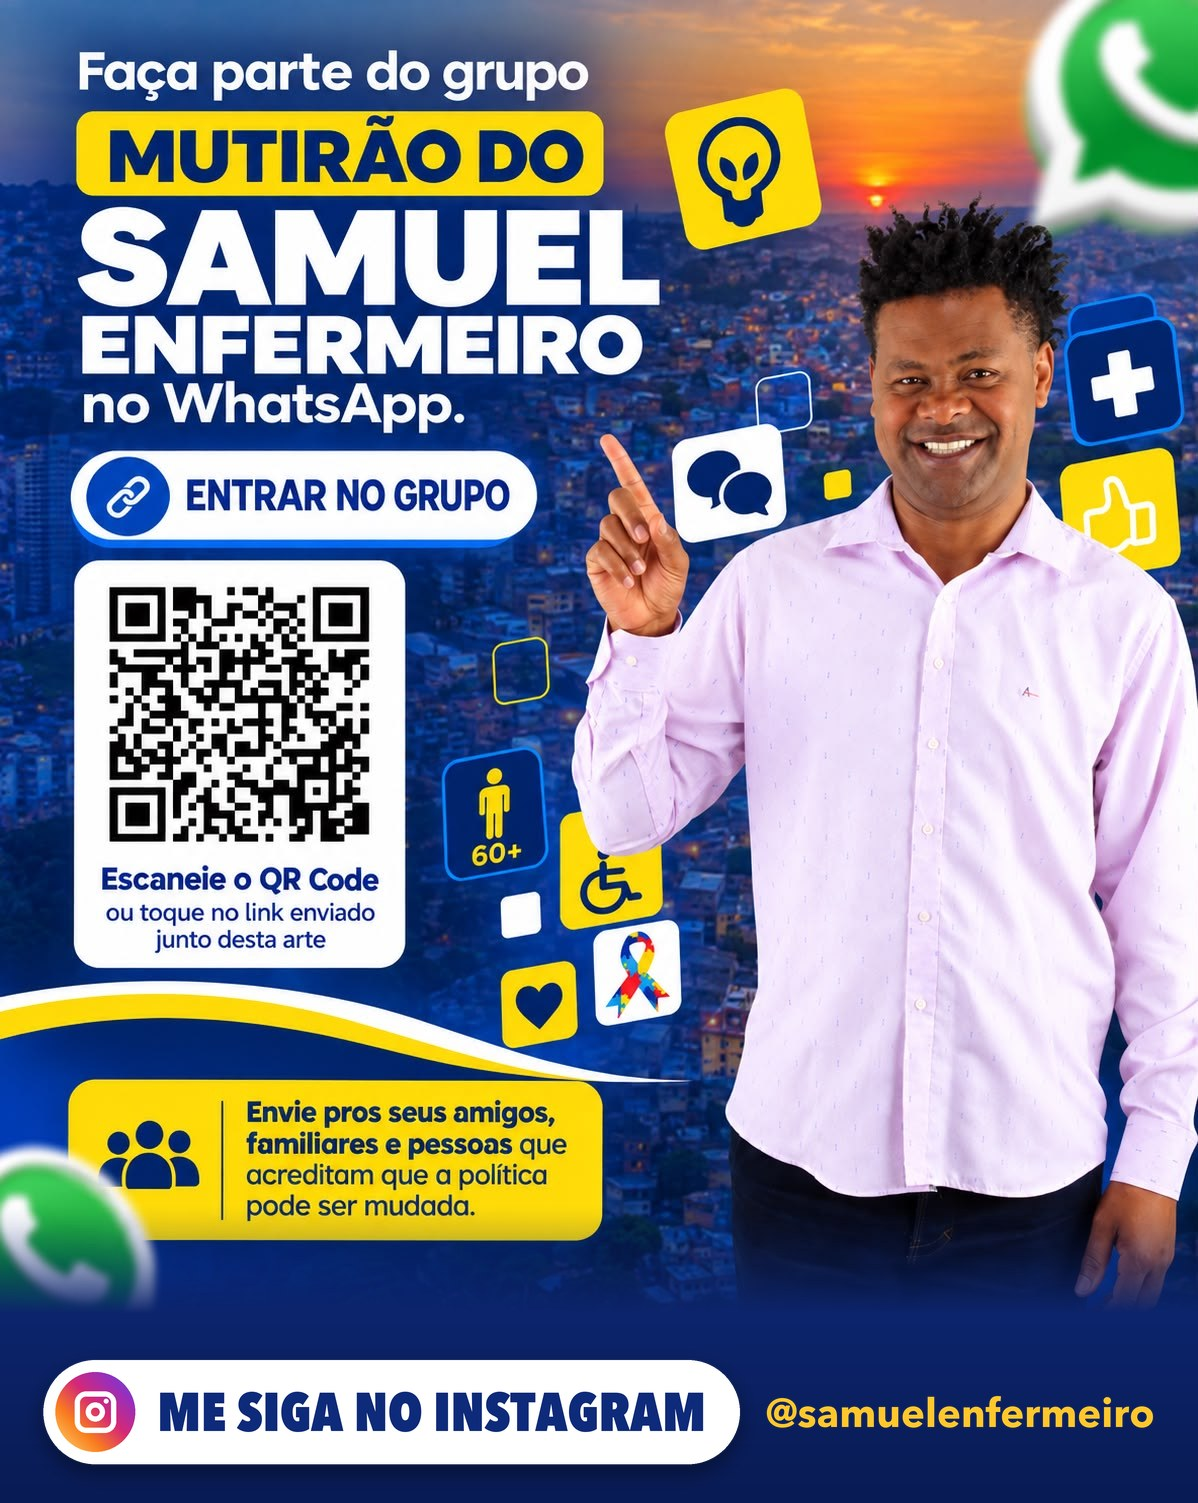
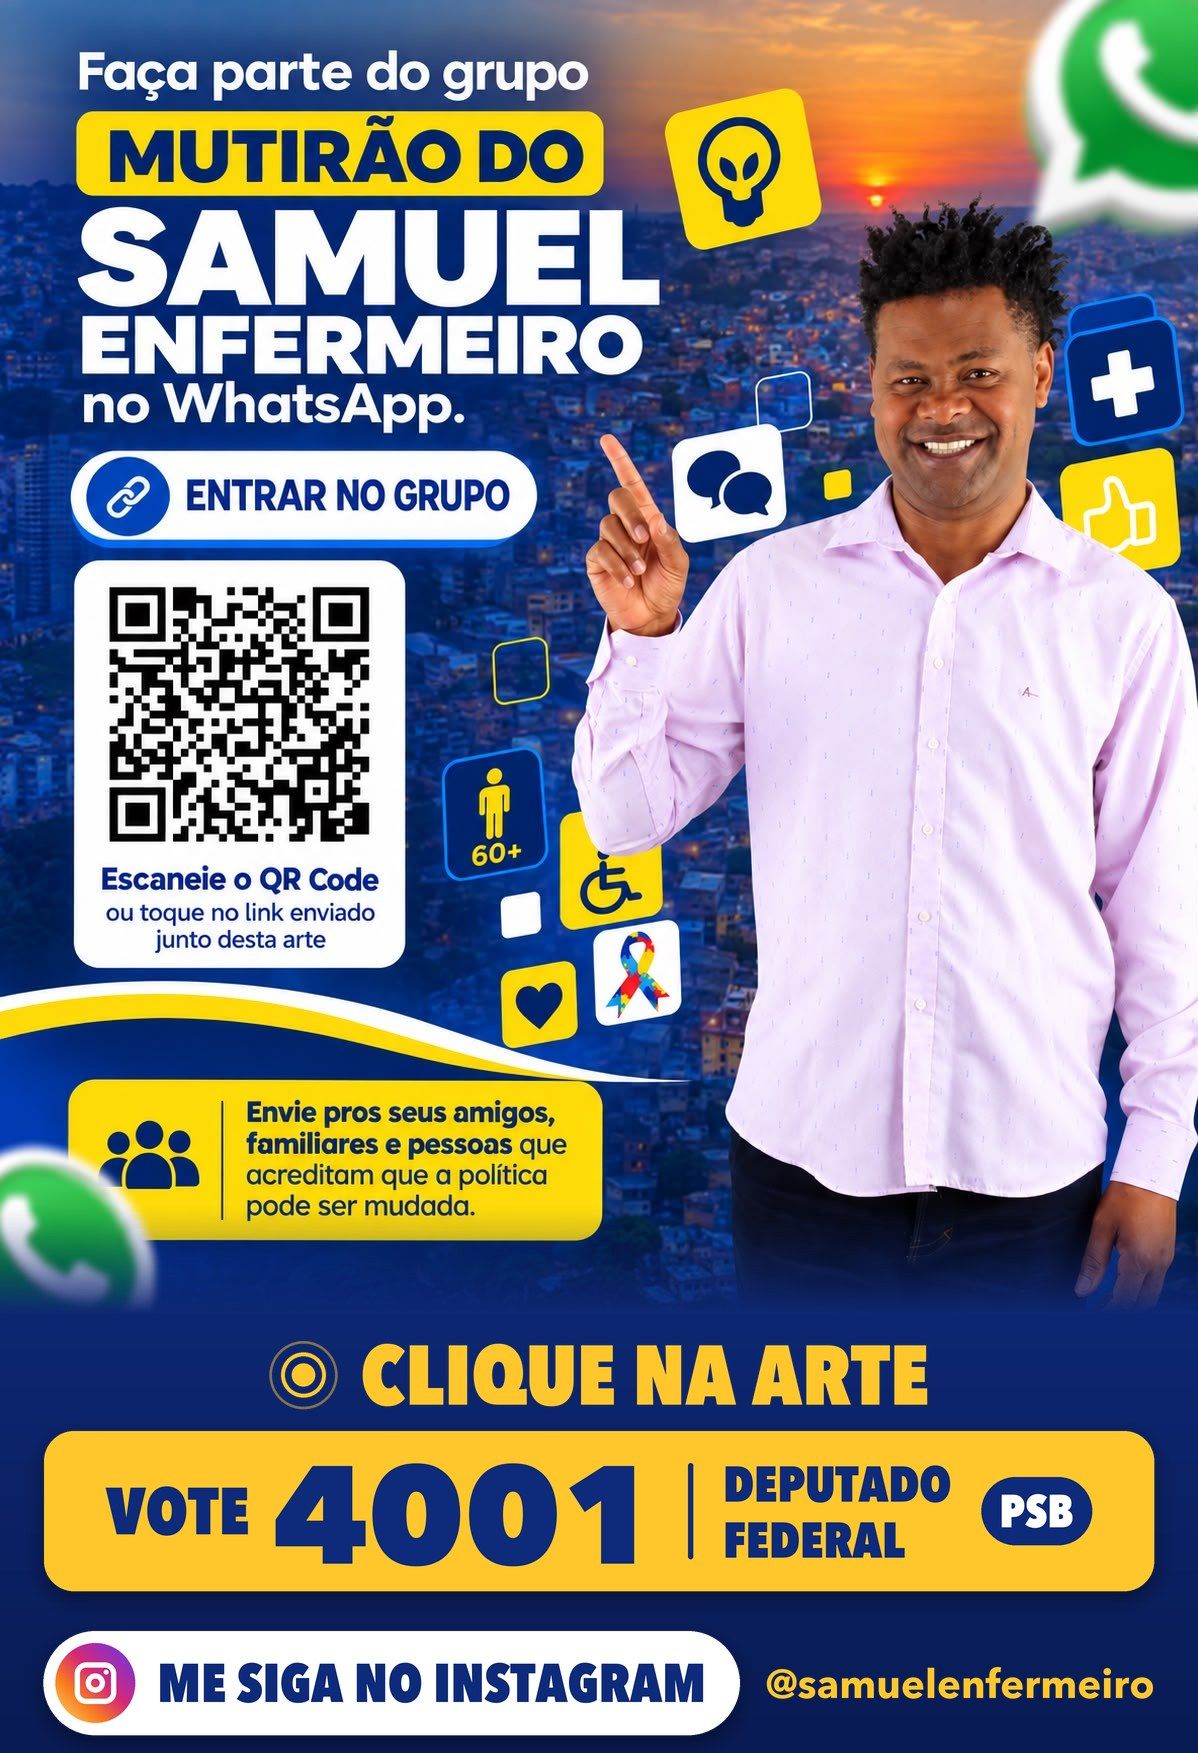
Mutirao: CLIQUE NA ARTE e VOTE 4001 Deputado Federal PSB na arte e na previa

diff --git a/mutirao/index.html b/mutirao/index.html
@@ -11,8 +11,8 @@
 <meta property="og:url" content="https://samuelenfermeiro-4001.github.io/mutirao/">
 <meta property="og:title" content="Mutirão do Samuel Enfermeiro">
 <meta property="og:description" content="Toque na arte para entrar no grupo ou seguir @samuelenfermeiro no Instagram.">
-<meta property="og:image" content="https://samuelenfermeiro-4001.github.io/mutirao/previa-whatsapp.jpg?v=2">
-<meta property="og:image:secure_url" content="https://samuelenfermeiro-4001.github.io/mutirao/previa-whatsapp.jpg?v=2">
+<meta property="og:image" content="https://samuelenfermeiro-4001.github.io/mutirao/previa-whatsapp.jpg?v=3">
+<meta property="og:image:secure_url" content="https://samuelenfermeiro-4001.github.io/mutirao/previa-whatsapp.jpg?v=3">
 <meta property="og:image:type" content="image/jpeg">
 <meta property="og:image:width" content="1200">
 <meta property="og:image:height" content="630">
@@ -28,11 +28,11 @@
   .arte img{display:block;width:100%;height:auto}
   .arte a{position:absolute;-webkit-tap-highlight-color:rgba(255,199,44,.35)}
   .arte a:focus-visible{outline:3px solid #FFC72C;outline-offset:2px}
-  /* Areas medidas sobre arte.jpg (1198x1503) */
+  /* Areas medidas sobre arte.jpg (1198x1753); gerar com ferramentas/arte_mutirao.py */
   .fundo{inset:0}
-  .botao-grupo{left:5.84%;top:29.81%;width:39.23%;height:6.65%;border-radius:999px}
-  .qr-grupo{left:6.18%;top:37.26%;width:27.55%;height:27.15%;border-radius:12px}
-  .faixa-insta{left:0;top:87.36%;width:100%;height:12.64%}
+  .botao-grupo{left:5.84%;top:25.56%;width:39.23%;height:5.70%;border-radius:999px}
+  .qr-grupo{left:6.18%;top:31.95%;width:27.55%;height:23.27%;border-radius:12px}
+  .faixa-insta{left:0;top:92.01%;width:100%;height:7.99%}
   .botao-grupo::after{content:"";position:absolute;inset:0;border-radius:inherit;box-shadow:0 0 0 0 rgba(255,199,44,.9);animation:pulso 1.8s ease-out infinite}
   @keyframes pulso{0%{box-shadow:0 0 0 0 rgba(255,199,44,.85)}100%{box-shadow:0 0 0 14px rgba(255,199,44,0)}}
   @media (prefers-reduced-motion:reduce){.botao-grupo::after{animation:none;box-shadow:0 0 0 3px #FFC72C}}
@@ -46,7 +46,7 @@
 <main>
   <p class="dica">Toque em “Entrar no grupo” ou no QR Code da arte</p>
   <div class="arte">
-    <img src="arte.jpg?v=2" width="1198" height="1503" alt="Faça parte do grupo Mutirão do Samuel Enfermeiro no WhatsApp">
+    <img src="arte.jpg?v=3" width="1198" height="1753" alt="Faça parte do grupo Mutirão do Samuel Enfermeiro no WhatsApp">
     <a class="fundo" href="https://www.instagram.com/samuelenfermeiro/" aria-label="Seguir o Samuel Enfermeiro no Instagram"></a>
     <a class="faixa-insta" href="https://www.instagram.com/samuelenfermeiro/" aria-label="Me siga no Instagram"></a>
     <a class="qr-grupo" href="https://chat.whatsapp.com/Hd8Yf2j2q63KuOYK6g8QCI?mode=gi_t" aria-label="Entrar no grupo pelo QR Code"></a>

diff --git a/ferramentas/arte_mutirao.py b/ferramentas/arte_mutirao.py
@@ -1,0 +1,183 @@
+"""Gera a arte do Mutirão (mutirao/arte.jpg) e a prévia do WhatsApp (mutirao/previa-whatsapp.jpg).
+
+Parte da arte original do designer e acrescenta embaixo: "CLIQUE NA ARTE", o bloco de voto
+e o botão do Instagram. Imprime as áreas clicáveis em % para colar em mutirao/index.html.
+Uso: python3 ferramentas/arte_mutirao.py <arte-original.jpg>
+"""
+import sys
+from pathlib import Path
+from PIL import Image, ImageDraw, ImageFont, ImageFilter, ImageEnhance
+
+RAIZ = Path(__file__).resolve().parent.parent / "mutirao"
+NAVY, NAVY_ESCURO, OURO, BRANCO = (14, 42, 122), (9, 27, 84), (255, 199, 44), (255, 255, 255)
+CONDENSADA = "/System/Library/Fonts/Avenir Next Condensed.ttc"
+AVENIR = "/System/Library/Fonts/Avenir Next.ttc"
+S = 3  # supersample para bordas lisas
+
+
+def fonte(caminho, nome, tamanho):
+    for i in range(30):
+        try:
+            f = ImageFont.truetype(caminho, tamanho, index=i)
+        except OSError:
+            break
+        if " ".join(f.getname()).lower() == nome.lower():
+            return f
+    raise SystemExit(f"fonte não encontrada: {nome}")
+
+
+def texto_centro(d, cx, cy, txt, f, cor):
+    x0, y0, x1, y1 = f.getbbox(txt)
+    d.text((cx - (x0 + x1) / 2, cy - (y0 + y1) / 2), txt, font=f, fill=cor)
+
+
+def texto_meio(d, x, cy, txt, f, cor):
+    _, y0, _, y1 = f.getbbox(txt)
+    d.text((x, cy - (y0 + y1) / 2), txt, font=f, fill=cor)
+
+
+def icone_toque(d, cx, cy, r, cor):
+    d.ellipse((cx - r * .34, cy - r * .34, cx + r * .34, cy + r * .34), fill=cor)
+    d.ellipse((cx - r * .66, cy - r * .66, cx + r * .66, cy + r * .66), outline=cor, width=int(r * .12))
+    d.ellipse((cx - r, cy - r, cx + r, cy + r), outline=cor + (120,), width=int(r * .08))
+
+
+def icone_instagram(camada, x, y, diam):
+    paradas = [(0, (254, 218, 117)), (.3, (250, 126, 30)), (.55, (214, 41, 118)), (.8, (150, 47, 191)), (1, (79, 91, 213))]
+    g = Image.new("RGBA", (diam, diam))
+    px = g.load()
+    for yy in range(diam):
+        for xx in range(diam):
+            t = (xx + (diam - yy)) / (2 * diam)
+            for (a, ca), (b, cb) in zip(paradas, paradas[1:]):
+                if a <= t <= b:
+                    k = (t - a) / (b - a)
+                    px[xx, yy] = tuple(int(ca[i] + (cb[i] - ca[i]) * k) for i in range(3)) + (255,)
+                    break
+    m = Image.new("L", (diam, diam), 0)
+    ImageDraw.Draw(m).ellipse((0, 0, diam - 1, diam - 1), fill=255)
+    camada.paste(g, (x, y), m)
+    d = ImageDraw.Draw(camada)
+    q = diam * .52; qx, qy = x + (diam - q) / 2, y + (diam - q) / 2; w = int(diam * .07)
+    d.rounded_rectangle((qx, qy, qx + q, qy + q), int(q * .28), outline="white", width=w)
+    r = q * .23
+    d.ellipse((qx + q / 2 - r, qy + q / 2 - r, qx + q / 2 + r, qy + q / 2 + r), outline="white", width=w)
+    p = q * .055
+    d.ellipse((qx + q * .76 - p, qy + q * .24 - p, qx + q * .76 + p, qy + q * .24 + p), fill="white")
+
+
+def gerar(origem):
+    arte = Image.open(origem).convert("RGB")
+    W, H = arte.size
+    PAINEL, FUSAO = 440, 110
+    NH = H + PAINEL
+    saida = Image.new("RGB", (W, NH), NAVY)
+    saida.paste(arte, (0, 0))
+
+    # degrade marinho que funde com o pé da arte
+    inicio = H - FUSAO
+    grad = Image.new("RGB", (1, NH)); mask = Image.new("L", (1, NH))
+    for y in range(NH):
+        t = max(0.0, min(1.0, (y - inicio) / (NH - inicio)))
+        grad.putpixel((0, y), tuple(int(NAVY[i] + (NAVY_ESCURO[i] - NAVY[i]) * t) for i in range(3)))
+        mask.putpixel((0, y), 0 if y < inicio else 255 if y >= H else int(255 * ((y - inicio) / FUSAO) ** 1.4))
+    saida.paste(grad.resize((W, NH)), (0, 0), mask.resize((W, NH)))
+
+    L = Image.new("RGBA", (W * S, PAINEL * S), (0, 0, 0, 0))
+    d = ImageDraw.Draw(L)
+
+    # 1) CLIQUE NA ARTE
+    f_clique = fonte(CONDENSADA, "Avenir Next Condensed Heavy", 84 * S)
+    cy = 62 * S
+    rotulo = "CLIQUE NA ARTE"
+    larg = 70 * S + 22 * S + f_clique.getlength(rotulo)
+    x = (W * S - larg) / 2
+    icone_toque(d, x + 35 * S, cy, 34 * S, OURO)
+    texto_meio(d, x + 92 * S, cy, rotulo, f_clique, OURO)
+
+    # 2) VOTE 4001 | DEPUTADO FEDERAL | PSB
+    bx0, by0, bx1, by1 = 44 * S, 118 * S, (W - 44) * S, 278 * S
+    sombra = Image.new("RGBA", L.size, (0, 0, 0, 0))
+    ImageDraw.Draw(sombra).rounded_rectangle((bx0, by0 + 8 * S, bx1, by1 + 8 * S), 30 * S, fill=(0, 0, 0, 110))
+    L = Image.alpha_composite(sombra.filter(ImageFilter.GaussianBlur(10 * S)), L)
+    d = ImageDraw.Draw(L)
+    d.rounded_rectangle((bx0, by0, bx1, by1), 30 * S, fill=OURO)
+    f_vote = fonte(CONDENSADA, "Avenir Next Condensed Heavy", 66 * S)
+    f_num = fonte(AVENIR, "Avenir Next Heavy", 138 * S)
+    f_cargo = fonte(CONDENSADA, "Avenir Next Condensed Heavy", 50 * S)
+    f_psb = fonte(CONDENSADA, "Avenir Next Condensed Heavy", 46 * S)
+    vy = (by0 + by1) / 2
+    w_vote, w_num = f_vote.getlength("VOTE"), f_num.getlength("4001")
+    w_cargo = max(f_cargo.getlength("DEPUTADO"), f_cargo.getlength("FEDERAL"))
+    w_psb = f_psb.getlength("PSB") + 36 * S
+    total = w_vote + 22 * S + w_num + 30 * S + 5 * S + 30 * S + w_cargo + 30 * S + w_psb
+    x = (W * S - total) / 2
+    texto_meio(d, x, vy, "VOTE", f_vote, NAVY); x += w_vote + 22 * S
+    texto_meio(d, x, vy + 4 * S, "4001", f_num, NAVY); x += w_num + 30 * S
+    d.rounded_rectangle((x, vy - 48 * S, x + 5 * S, vy + 48 * S), 3 * S, fill=NAVY); x += 5 * S + 30 * S
+    texto_meio(d, x, vy - 27 * S, "DEPUTADO", f_cargo, NAVY)
+    texto_meio(d, x, vy + 29 * S, "FEDERAL", f_cargo, NAVY); x += w_cargo + 30 * S
+    d.rounded_rectangle((x, vy - 34 * S, x + w_psb, vy + 34 * S), 34 * S, fill=NAVY)
+    texto_centro(d, x + w_psb / 2, vy, "PSB", f_psb, BRANCO)
+
+    # 3) ME SIGA NO INSTAGRAM @samuelenfermeiro
+    f_bt = fonte(CONDENSADA, "Avenir Next Condensed Heavy", 54 * S)
+    f_arroba = fonte(AVENIR, "Avenir Next Bold", 40 * S)
+    PH, CD, PAD = 104 * S, 80 * S, 12 * S
+    rot, arroba = "ME SIGA NO INSTAGRAM", "@samuelenfermeiro"
+    pw = int(PAD + CD + 22 * S + f_bt.getlength(rot) + 34 * S)
+    total = pw + 26 * S + f_arroba.getlength(arroba)
+    px0, py0 = int((W * S - total) / 2), 318 * S
+    sombra = Image.new("RGBA", L.size, (0, 0, 0, 0))
+    ImageDraw.Draw(sombra).rounded_rectangle((px0, py0 + 8 * S, px0 + pw, py0 + PH + 8 * S), PH // 2, fill=(0, 0, 0, 110))
+    L = Image.alpha_composite(sombra.filter(ImageFilter.GaussianBlur(10 * S)), L)
+    d = ImageDraw.Draw(L)
+    d.rounded_rectangle((px0, py0, px0 + pw, py0 + PH), PH // 2, fill=BRANCO)
+    icone_instagram(L, px0 + PAD, py0 + (PH - CD) // 2, CD)
+    d = ImageDraw.Draw(L)
+    texto_meio(d, px0 + PAD + CD + 22 * S, py0 + PH / 2, rot, f_bt, NAVY)
+    texto_meio(d, px0 + pw + 26 * S, py0 + PH / 2, arroba, f_arroba, OURO)
+
+    L = L.resize((W, PAINEL), Image.LANCZOS)
+    saida.paste(L, (0, H), L)
+    saida.save(RAIZ / "arte.jpg", quality=88, optimize=True, progressive=True)
+
+    # prévia 1200x630: arte inteira no centro, chamadas grandes nas laterais
+    PW, PHv, E = 1200, 630, 2
+    fundo = saida.copy(); k = max(PW / fundo.width, PHv / fundo.height)
+    fundo = fundo.resize((int(fundo.width * k) + 1, int(fundo.height * k) + 1), Image.LANCZOS)
+    l, t = (fundo.width - PW) // 2, (fundo.height - PHv) // 2
+    fundo = ImageEnhance.Brightness(fundo.crop((l, t, l + PW, t + PHv)).filter(ImageFilter.GaussianBlur(30))).enhance(.42)
+    frente = saida.resize((round(W * PHv / NH), PHv), Image.LANCZOS)
+    fundo.paste(frente, ((PW - frente.width) // 2, 0))
+    lado = (PW - frente.width) / 2
+    C = Image.new("RGBA", (PW * E, PHv * E), (0, 0, 0, 0)); d = ImageDraw.Draw(C)
+    ce = lado / 2 * E
+    icone_toque(d, ce, 190 * E, 44 * E, OURO)
+    texto_centro(d, ce, 300 * E, "CLIQUE", fonte(CONDENSADA, "Avenir Next Condensed Heavy", 92 * E), BRANCO)
+    texto_centro(d, ce, 392 * E, "NA ARTE", fonte(CONDENSADA, "Avenir Next Condensed Heavy", 92 * E), OURO)
+    cd = (PW - lado / 2) * E
+    texto_centro(d, cd, 196 * E, "VOTE", fonte(CONDENSADA, "Avenir Next Condensed Heavy", 58 * E), OURO)
+    texto_centro(d, cd, 292 * E, "4001", fonte(AVENIR, "Avenir Next Heavy", 112 * E), BRANCO)
+    texto_centro(d, cd, 382 * E, "DEPUTADO FEDERAL", fonte(CONDENSADA, "Avenir Next Condensed Heavy", 42 * E), BRANCO)
+    f_p = fonte(CONDENSADA, "Avenir Next Condensed Heavy", 38 * E); wp = f_p.getlength("PSB") + 40 * E
+    d.rounded_rectangle((cd - wp / 2, 428 * E, cd + wp / 2, 482 * E), 27 * E, fill=OURO)
+    texto_centro(d, cd, 455 * E, "PSB", f_p, NAVY)
+    C = C.resize((PW, PHv), Image.LANCZOS)
+    fundo.paste(C, (0, 0), C)
+    fundo.save(RAIZ / "previa-whatsapp.jpg", quality=86, optimize=True, progressive=True)
+
+    pct = lambda v, tot: f"{100 * v / tot:.2f}%"
+    print(f"arte {W}x{NH}")
+    print("botao-grupo", pct(70, W), pct(448, NH), pct(470, W), pct(100, NH))
+    print("qr-grupo   ", pct(74, W), pct(560, NH), pct(330, W), pct(408, NH))
+    print("faixa-insta", "0%", pct(H + 300, NH), "100%", pct(PAINEL - 300, NH))
+    return saida, fundo
+
+
+if __name__ == "__main__":
+    saida, previa = gerar(sys.argv[1])
+    if len(sys.argv) > 2:
+        destino = Path(sys.argv[2]); destino.mkdir(parents=True, exist_ok=True)
+        saida.resize((600, round(600 * saida.height / saida.width))).save(destino / "arte.jpg", quality=85)
+        previa.resize((800, 420)).save(destino / "previa.jpg", quality=85)
